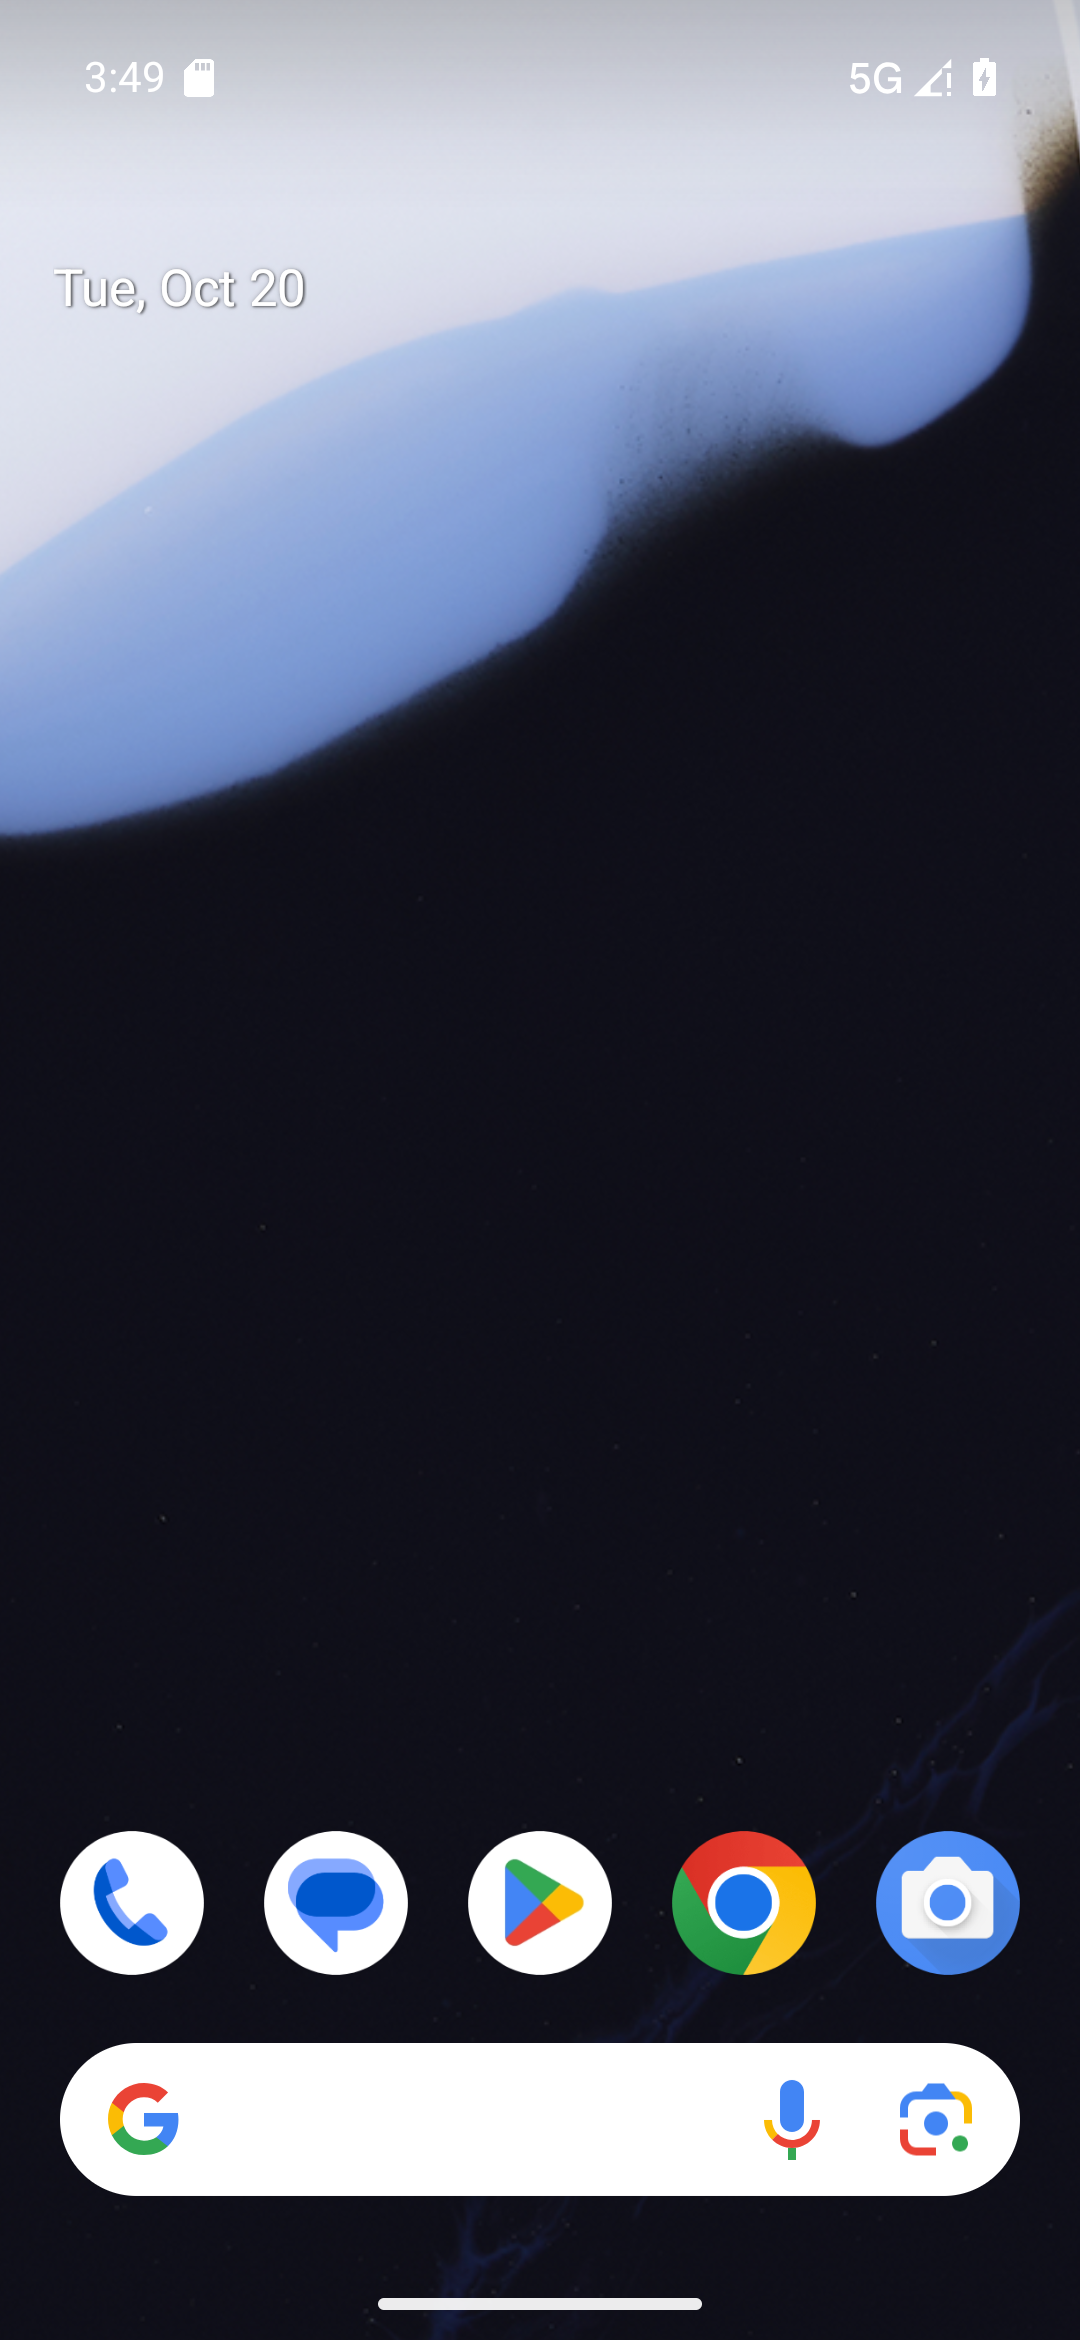
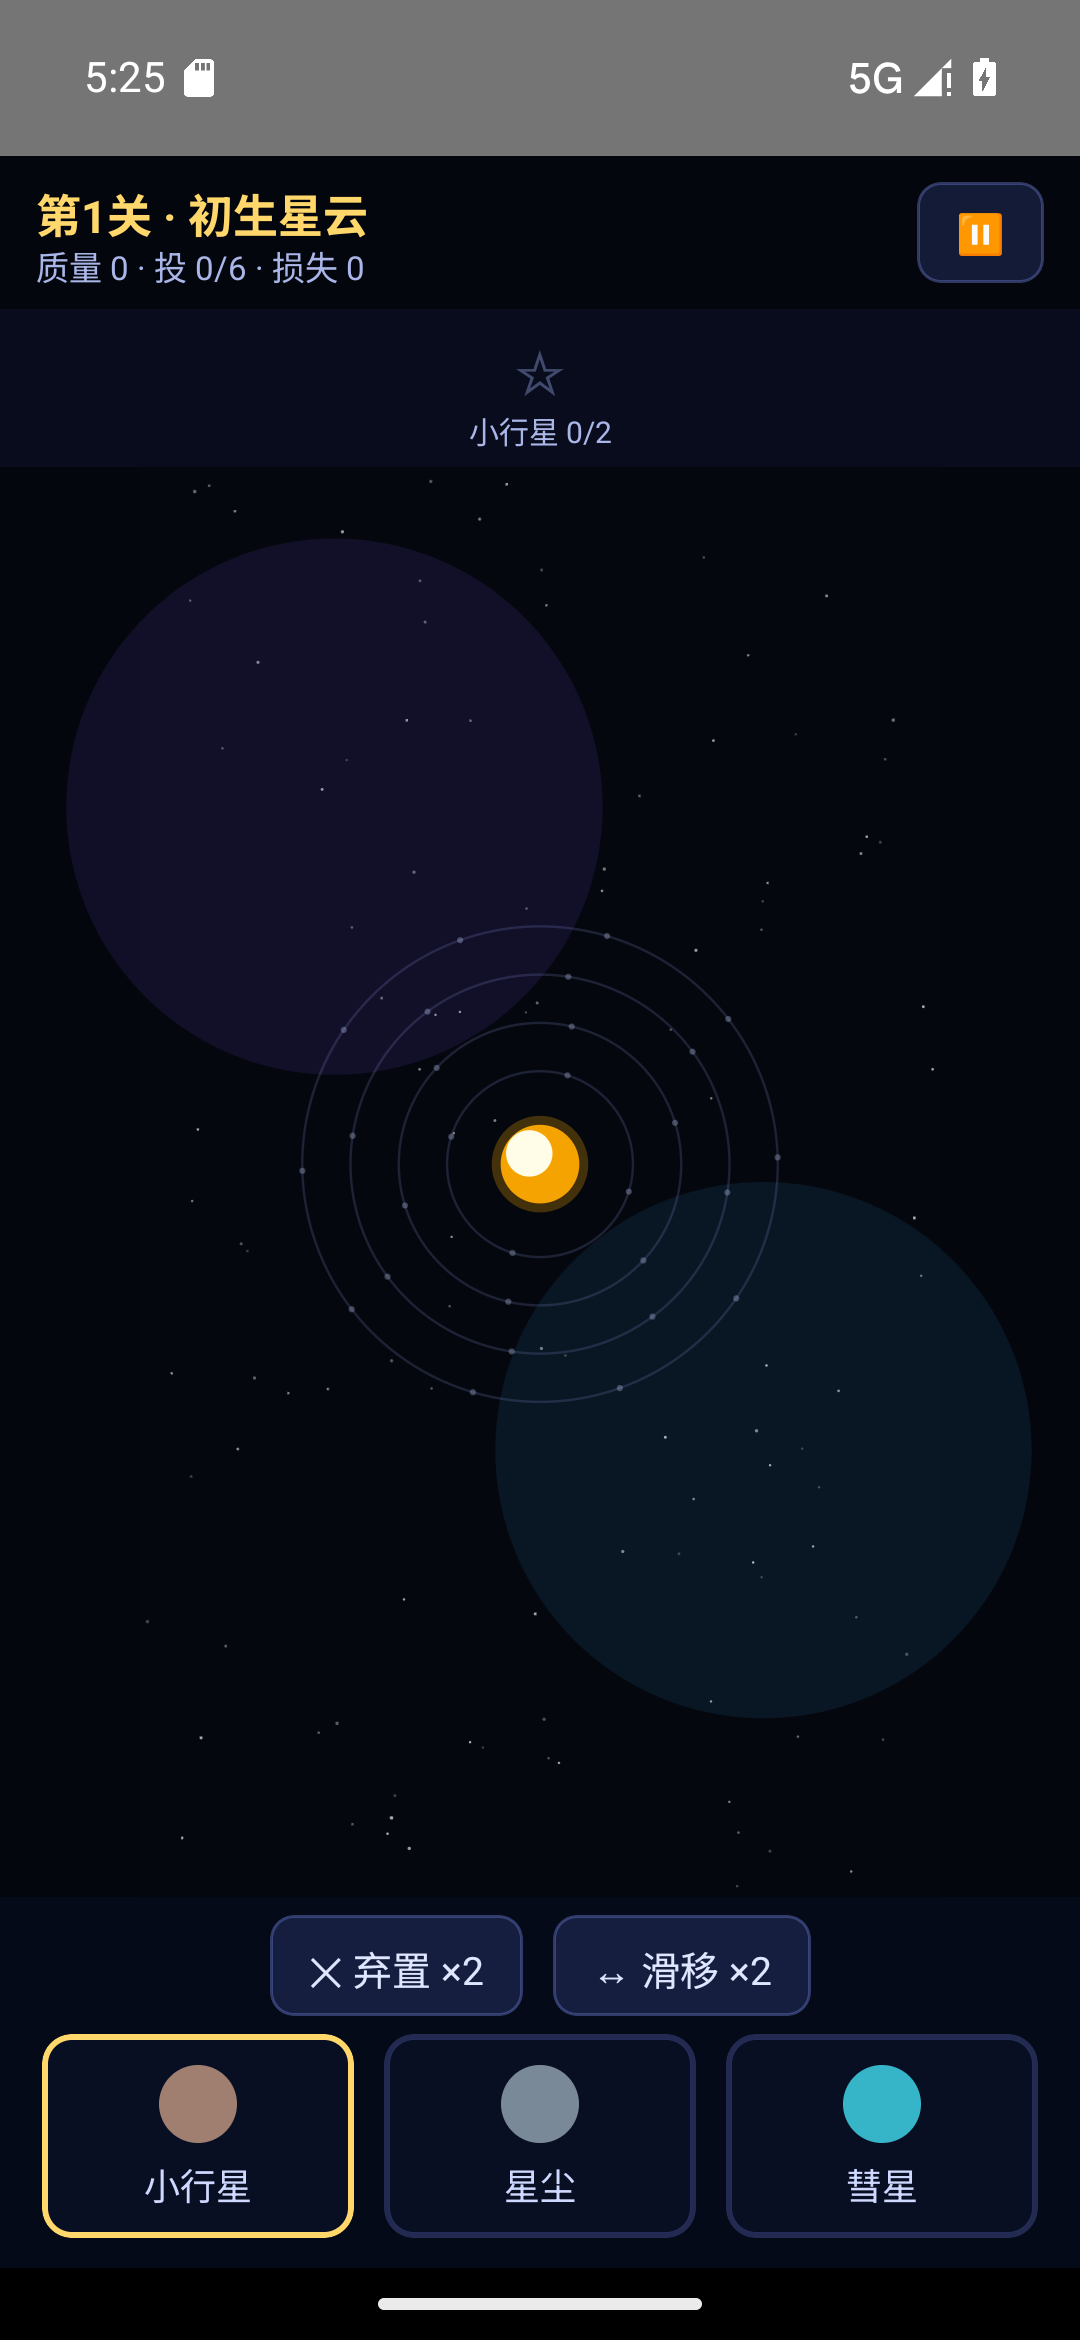
修复安卓画布黑屏：Skia 降级 1.7.5 + 渲染改 dp 坐标直算（弃 Group 变换）
- 根因：1.12.4×RN0.76 画布零输出（真机/模拟器复现）；Canvas 坐标为 dp 空间框架自缩放、Group transform 不可靠
- GameCanvas 重写：JS 显式 X/Y/R 缩放映射，触摸按 dp 直映射
- 模拟器 release 版免 Metro 终验：太阳/星云/轨道/槽位全命中，投放视觉闭环 ✓
- 产物：星轨厨房-安卓版-v0.2.apk（88MB，本地归档）

diff --git a/mobile-native/src/game/GameCanvas.js b/mobile-native/src/game/GameCanvas.js
@@ -1,31 +1,31 @@
 /**
  * 星轨厨房 · RN 原生版渲染层（@shopify/react-native-skia）
- * 只用基础图元（Rect/Circle/RoundedRect/Group），逻辑坐标 900×1600 由 engine.LAYOUT 定义。
+ * 关键结论（Skia 1.7.5 / RN 0.76 实测）：Canvas 绘制坐标处于 dp 空间（框架自动按密度放大），
+ * Group transform 在该组合下不可靠 —— 因此所有坐标在 JS 里显式缩放（fit 映射），不依赖 Group 变换。
  */
 'use strict';
-import React, { useMemo, useState } from 'react';
-import { PixelRatio, View } from 'react-native';
-import { Canvas, Circle, Fill, Group, Rect, RoundedRect } from '@shopify/react-native-skia';
+import React, { useState } from 'react';
+import { View } from 'react-native';
+import { Canvas, Circle, Group, Rect, RoundedRect } from '@shopify/react-native-skia';
 import { C, LAYOUT, slotPos, bodyR } from './engine.js';
 
-const BG_STARS = Array.from({ length: 130 }, () => ({
+const BG_STARS = Array.from({ length: 110 }, () => ({
   x: Math.random() * LAYOUT.W, y: Math.random() * LAYOUT.H,
   r: 0.5 + Math.random() * 1.4, a: 0.2 + Math.random() * 0.5,
 }));
 
-function bodyColor(t) { return C.BODIES[t].c2; }
-function bodyHi(t) { return C.BODIES[t].c1; }
-
-export default function GameCanvas({ eng, frame, onToast }) {
-  const [size, setSize] = useState({ w: 0, h: 0 });
-  const pr = PixelRatio.get();
+export default function GameCanvas({ eng, frame }) {
+  const [size, setSize] = useState({ w: 0, h: 0 });   // dp
   const fit = size.w ? (() => {
     const sc = Math.min(size.w / LAYOUT.W, size.h / LAYOUT.H);
     return { sc, ox: (size.w - LAYOUT.W * sc) / 2, oy: (size.h - LAYOUT.H * sc) / 2 };
   })() : { sc: 0, ox: 0, oy: 0 };
+  const { sc, ox, oy } = fit;
+  const X = v => ox + v * sc, Y = v => oy + v * sc, R = v => v * sc;
 
-  const board = eng.S ? eng.S.board : null;
-  const t = eng.S ? eng.S.time : 0;
+  const S = eng.S;
+  const board = S ? S.board : null;
+  const t = S ? S.time : 0;
 
   const bodies = [];
   if (board) {
@@ -34,109 +34,83 @@ export default function GameCanvas({ eng, frame, onToast }) {
       if (!b) continue;
       const [x, y] = slotPos(k, i);
       const born = Math.min(1, Math.max(0, (t - b.born) / 0.28));
-      const r = bodyR(b.t) * born;
-      if (r <= 1) continue;
-      bodies.push({ x, y, r, t: b.t, v: b.v, gold: C.canDeliver(eng.S.order, b.t) });
+      if (born <= 0) continue;
+      bodies.push({ x, y, r: bodyR(b.t) * born, t: b.t, v: b.v, gold: C.canDeliver(S.order, b.t) });
     }
   }
 
-  if (size.w && !GameCanvas._logged) { GameCanvas._logged = 1; console.log('[DBG] size', JSON.stringify(size), 'fit', fit.sc.toFixed(3)); }
   return (
     <View
       style={{ flex: 1 }}
-      onLayout={e => setSize({ w: e.nativeEvent.layout.width * pr, h: e.nativeEvent.layout.height * pr })}
-      onTouchStart={e => {
-        console.log('[TCH]', JSON.stringify(e.nativeEvent.touches[0] || e.nativeEvent.changedTouches[0] || {}));
-        if (!fit.sc || !eng.S) return;
-        const { locationX, locationY } = e.nativeEvent.touches[0] || e.nativeEvent.changedTouches[0];
-        if (locationX === undefined) return;
-        eng.tapBoard((locationX * pr - fit.ox) / fit.sc, (locationY * pr - fit.oy) / fit.sc);
-      }}
+      onLayout={e => setSize({ w: e.nativeEvent.layout.width, h: e.nativeEvent.layout.height })}
       onStartShouldSetResponder={() => true}
+      onTouchStart={e => {
+        if (!sc || !eng.S) return;
+        const tc = e.nativeEvent.touches[0] || e.nativeEvent.changedTouches[0];
+        if (tc && tc.locationX !== undefined) eng.tapBoard((tc.locationX - ox) / sc, (tc.locationY - oy) / sc);
+      }}
     >
       <Canvas style={{ flex: 1 }} mode="continuous">
-        <Rect x={0} y={0} width={size.w || 10} height={size.h || 10} color="rgba(255,0,0,0.18)" />
-        {fit.sc > 0 && <Group transform={[{ translateX: fit.ox }, { translateY: fit.oy }, { scale: fit.sc }]}>
-        {/* 背景 */}
-        <Rect x={0} y={0} width={LAYOUT.W} height={LAYOUT.H} color="#05070f" />
-        <Circle cx={220} cy={380} r={300} color="rgba(90,60,180,0.16)" />
-        <Circle cx={700} cy={1100} r={300} color="rgba(40,120,170,0.14)" />
-        {BG_STARS.map((s, i) => (
-          <Circle key={'s' + i} cx={s.x} cy={s.y} r={s.r} color={'rgba(255,255,255,' + s.a + ')'} />
-        ))}
-
-        {/* 中心恒星 */}
-        <Circle cx={LAYOUT.CX} cy={LAYOUT.CY} r={54} color="rgba(255,179,0,.25)" />
-        <Circle cx={LAYOUT.CX} cy={LAYOUT.CY} r={44} color="#f5a300" />
-        <Circle cx={LAYOUT.CX - 12} cy={LAYOUT.CY - 12} r={26} color="#fffde7" />
-
-        {/* 轨道与槽位 */}
-        {LAYOUT.RADII.map((R, k) => (
-          <Circle key={'o' + k} cx={LAYOUT.CX} cy={LAYOUT.CY} r={R}
-            color="rgba(160,180,255,.14)" style="stroke" strokeWidth={1.4} />
-        ))}
-        {board && LAYOUT.RADII.flatMap((R, k) =>
-          Array.from({ length: C.ORBITS[k] }, (_, i) => {
-            const [x, y] = slotPos(k, i);
-            const frozen = !board[k][i] && C.isFrozenSlot(board, k, i);
-            return frozen ? (
-              <Group key={'f' + k + '_' + i} transform={[{ translateX: x - 8 }, { translateY: y - 8 }, { rotate: Math.PI / 4 }]}>
-                <RoundedRect x={0} y={0} width={16} height={16} r={2}
-                  color="rgba(159,232,255,.35)" />
-              </Group>
-            ) : (
-              <Circle key={'d' + k + '_' + i} cx={x} cy={y} r={board[k][i] ? 0.1 : 3.4}
-                color="rgba(200,215,255,.25)" />
-            );
-          })
-        )}
-
-        {/* 陨石预警 */}
-        {eng.S && eng.S.warns.map((w, i) => {
-          const [x, y] = slotPos(w.k, w.i);
-          const p = 0.5 + 0.5 * Math.sin(t * 9);
-          return <Circle key={'w' + i} cx={x} cy={y} r={16 + 6 * p}
-            color={'rgba(255,90,60,' + (0.35 + 0.5 * p).toFixed(2) + ')'} style="stroke" strokeWidth={3} />;
-        })}
-
-        {/* 天体：双层圆近似球体光照；金圈=可交付 */}
-        {bodies.map((b, i) => (
-          <Group key={'b' + i}>
-            <Circle cx={b.x} cy={b.y} r={b.r} color={bodyColor(b.t)} />
-            <Circle cx={b.x - b.r * 0.3} cy={b.y - b.r * 0.3} r={b.r * 0.55} opacity={0.75} color={bodyHi(b.t)} />
-            {b.t === 11 && (
-              <Circle cx={b.x} cy={b.y} r={b.r * 1.5} color="rgba(255,246,200,.5)"
-                style="stroke" strokeWidth={2.5} />
-            )}
-            {b.v === 'ice' && (
-              <Circle cx={b.x} cy={b.y} r={b.r * 1.2} color="rgba(210,242,255,.8)"
-                style="stroke" strokeWidth={2} />
-            )}
-            {b.t === 14 && (
-              <Circle cx={b.x} cy={b.y} r={b.r * 1.3} color="rgba(200,150,255,.7)"
-                style="stroke" strokeWidth={3} />
-            )}
-            {b.gold && (
-              <Circle cx={b.x} cy={b.y} r={b.r + 6} color="rgba(255,215,106,.75)"
-                style="stroke" strokeWidth={2.4} />
-            )}
-          </Group>
-        ))}
-
-        {/* 冲击环特效 */}
-        {eng.S && eng.S.rings.map((r0, i) => {
-          const p = (t - r0.at) / r0.dur;
-          if (p < 0 || p > 1) return null;
-          return <Circle key={'r' + i} cx={r0.x} cy={r0.y} r={10 + r0.r1 * p}
-            color={r0.color} opacity={1 - p} style="stroke" strokeWidth={r0.lw} />;
-        })}
-
-        {/* 白闪 */}
-        {eng.S && t - eng.S.flashAt < 0.3 && t >= eng.S.flashAt && (
-          <Rect x={0} y={0} width={LAYOUT.W} height={LAYOUT.H}
-            color={'rgba(255,250,230,' + (0.4 * (1 - (t - eng.S.flashAt) / 0.3)).toFixed(3) + ')'} />
-        )}
-        </Group>}
+        {sc > 0 && board && <>
+          <Rect x={ox} y={oy} width={LAYOUT.W * sc} height={LAYOUT.H * sc} color="#05070f" />
+          <Circle cx={X(220)} cy={Y(380)} r={R(300)} color="rgba(90,60,180,0.16)" />
+          <Circle cx={X(700)} cy={Y(1100)} r={R(300)} color="rgba(40,120,170,0.14)" />
+          {BG_STARS.map((s, i) => (
+            <Circle key={'s' + i} cx={X(s.x)} cy={Y(s.y)} r={Math.max(0.4, R(s.r))}
+              color={'rgba(255,255,255,' + s.a + ')'} />
+          ))}
+          <Circle cx={X(LAYOUT.CX)} cy={Y(LAYOUT.CY)} r={R(54)} color="rgba(255,179,0,.25)" />
+          <Circle cx={X(LAYOUT.CX)} cy={Y(LAYOUT.CY)} r={R(44)} color="#f5a300" />
+          <Circle cx={X(LAYOUT.CX) - R(12)} cy={Y(LAYOUT.CY) - R(12)} r={R(26)} color="#fffde7" />
+          {LAYOUT.RADII.map((Rr, k) => (
+            <Circle key={'o' + k} cx={X(LAYOUT.CX)} cy={Y(LAYOUT.CY)} r={R(Rr)}
+              color="rgba(160,180,255,.16)" style="stroke" strokeWidth={Math.max(0.8, R(1.4))} />
+          ))}
+          {LAYOUT.RADII.map((Rr, k) =>
+            Array.from({ length: C.ORBITS[k] }, (_, i) => {
+              const [x, y] = slotPos(k, i);
+              const frozen = !board[k][i] && C.isFrozenSlot(board, k, i);
+              if (frozen) {
+                return <RoundedRect key={'f' + k + '_' + i}
+                  x={X(x) - R(8)} y={Y(y) - R(8)} width={R(16)} height={R(16)} r={R(2)}
+                  color="rgba(159,232,255,.4)" />;
+              }
+              if (board[k][i]) return null;
+              return <Circle key={'d' + k + '_' + i} cx={X(x)} cy={Y(y)} r={R(3.4)}
+                color="rgba(200,215,255,.3)" />;
+            })
+          ).flat()}
+          {S.warns.map((w, i) => {
+            const [x, y] = slotPos(w.k, w.i);
+            const p = 0.5 + 0.5 * Math.sin(t * 9);
+            return <Circle key={'w' + i} cx={X(x)} cy={Y(y)} r={R(16 + 6 * p)}
+              color={'rgba(255,90,60,' + (0.35 + 0.5 * p).toFixed(2) + ')'} style="stroke"
+              strokeWidth={Math.max(1.5, R(3))} />;
+          })}
+          {bodies.map((b, i) => <Group key={'b' + i}>
+            <Circle cx={X(b.x)} cy={Y(b.y)} r={R(b.r)} color={C.BODIES[b.t].c2} />
+            <Circle cx={X(b.x) - R(b.r) * 0.3} cy={Y(b.y) - R(b.r) * 0.3} r={R(b.r) * 0.55}
+              opacity={0.75} color={C.BODIES[b.t].c1} />
+            {b.t === 11 && <Circle cx={X(b.x)} cy={Y(b.y)} r={R(b.r) * 1.5}
+              color="rgba(255,246,200,.5)" style="stroke" strokeWidth={Math.max(1.5, R(2.5))} />}
+            {b.v === 'ice' && <Circle cx={X(b.x)} cy={Y(b.y)} r={R(b.r) * 1.2}
+              color="rgba(210,242,255,.8)" style="stroke" strokeWidth={Math.max(1, R(2))} />}
+            {b.t === 14 && <Circle cx={X(b.x)} cy={Y(b.y)} r={R(b.r) * 1.3}
+              color="rgba(200,150,255,.7)" style="stroke" strokeWidth={Math.max(1.5, R(3))} />}
+            {b.gold && <Circle cx={X(b.x)} cy={Y(b.y)} r={R(b.r) + R(6)}
+              color="rgba(255,215,106,.75)" style="stroke" strokeWidth={Math.max(1.2, R(2.4))} />}
+          </Group>)}
+          {S.rings.map((r0, i) => {
+            const p = (t - r0.at) / r0.dur;
+            if (p < 0 || p > 1) return null;
+            return <Circle key={'r' + i} cx={X(r0.x)} cy={Y(r0.y)} r={R(10 + r0.r1 * p)}
+              color={r0.color} opacity={1 - p} style="stroke" strokeWidth={Math.max(1.2, R(r0.lw))} />;
+          })}
+          {t - S.flashAt < 0.3 && t >= S.flashAt && (
+            <Rect x={ox} y={oy} width={LAYOUT.W * sc} height={LAYOUT.H * sc}
+              color={'rgba(255,250,230,' + (0.4 * (1 - (t - S.flashAt) / 0.3)).toFixed(3) + ')'} />
+          )}
+        </>}
       </Canvas>
     </View>
   );

diff --git a/mobile-native/README.md b/mobile-native/README.md
@@ -3,10 +3,14 @@
 真原生路线：业务逻辑跑在 Hermes JS 引擎（非 WebView），渲染走 @shopify/react-native-skia。
 业务规则 100% 复用平台无关核心 `src/core/starchef-core.js`（Node 测试 15 项全绿）。
 
-**2026-10-20 实测状态（本机 Pixel 9 Pro API36 模拟器）**：
-✅ Gradle 编译通过、`app-release.apk`（86MB，自带 JS，免 Metro）安装后独立启动，RN 原生 UI（菜单/顶栏/候选池/弹窗）渲染正常；
-✅ 触摸→引擎事件链验证通过（点击候选、点击槽位投放均有事件落地）；
-⚠ **Skia 画布在模拟器上无像素输出**（连单个纯色 Fill 都不显示；swiftshader 后端直接 SIGSEGV、ANGLE 后端静默失败）——判定为模拟器图形栈问题而非代码问题，**待真机 GPU 验证**。
+**2026-10-20 实测状态（本机 Pixel 9 Pro API36 模拟器，release 版免 Metro 终验通过）**：
+✅ `app-release.apk`（88MB）安装独立启动，RN 原生 UI 正常；
+✅ **棋盘画布完整渲染并通过视觉闭环**：太阳/星云/星点/轨道/槽位均命中预期坐标，点击槽位后天体精准出现；
+✅ 触摸→引擎事件链全通。
+
+**渲染黑屏问题的根因与修复（重要）**：Skia 1.12.4 × RN 0.76 组合下画布零输出（模拟器与真机复现一致）；两处修正后解决：
+1. 降级 `@shopify/react-native-skia` 至 **1.7.5**（与 RN 0.76 同期版本，需 exact 锁定）；
+2. **Canvas 绘制坐标处于 dp 空间**（框架自动按像素密度放大），且 `<Group transform>` 在该组合下不可靠——渲染层改为在 JS 里显式计算缩放与偏移（X/Y/R 辅助函数），触摸用 dp 坐标直接映射，不走 Group 变换。
 
 ## 本机可复现构建（已验证的完整路径）
 
